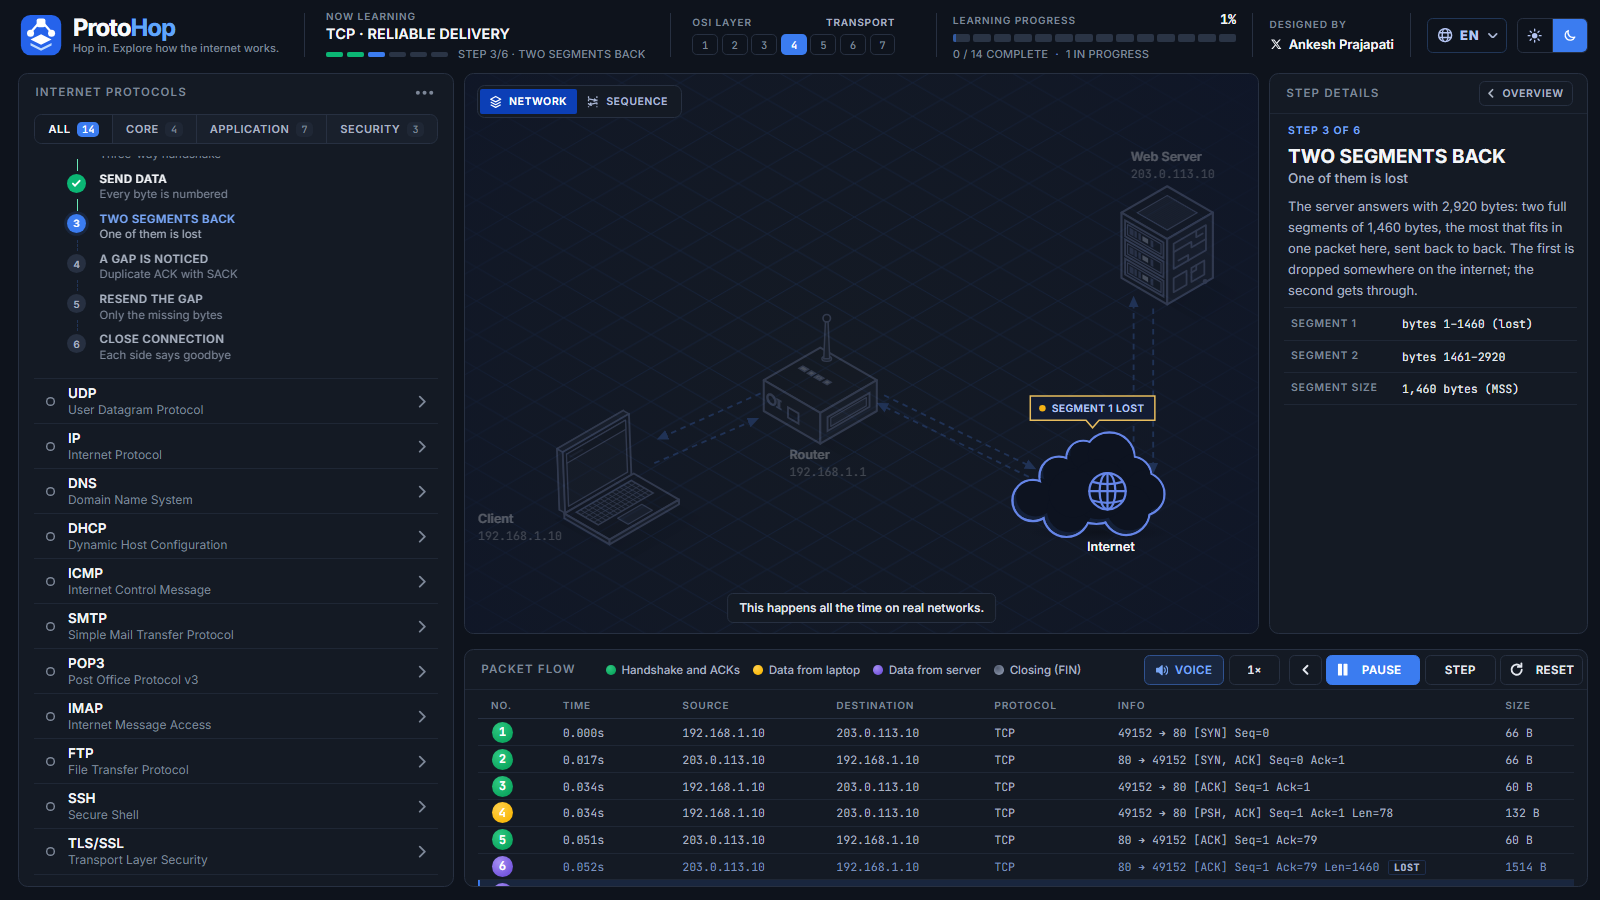
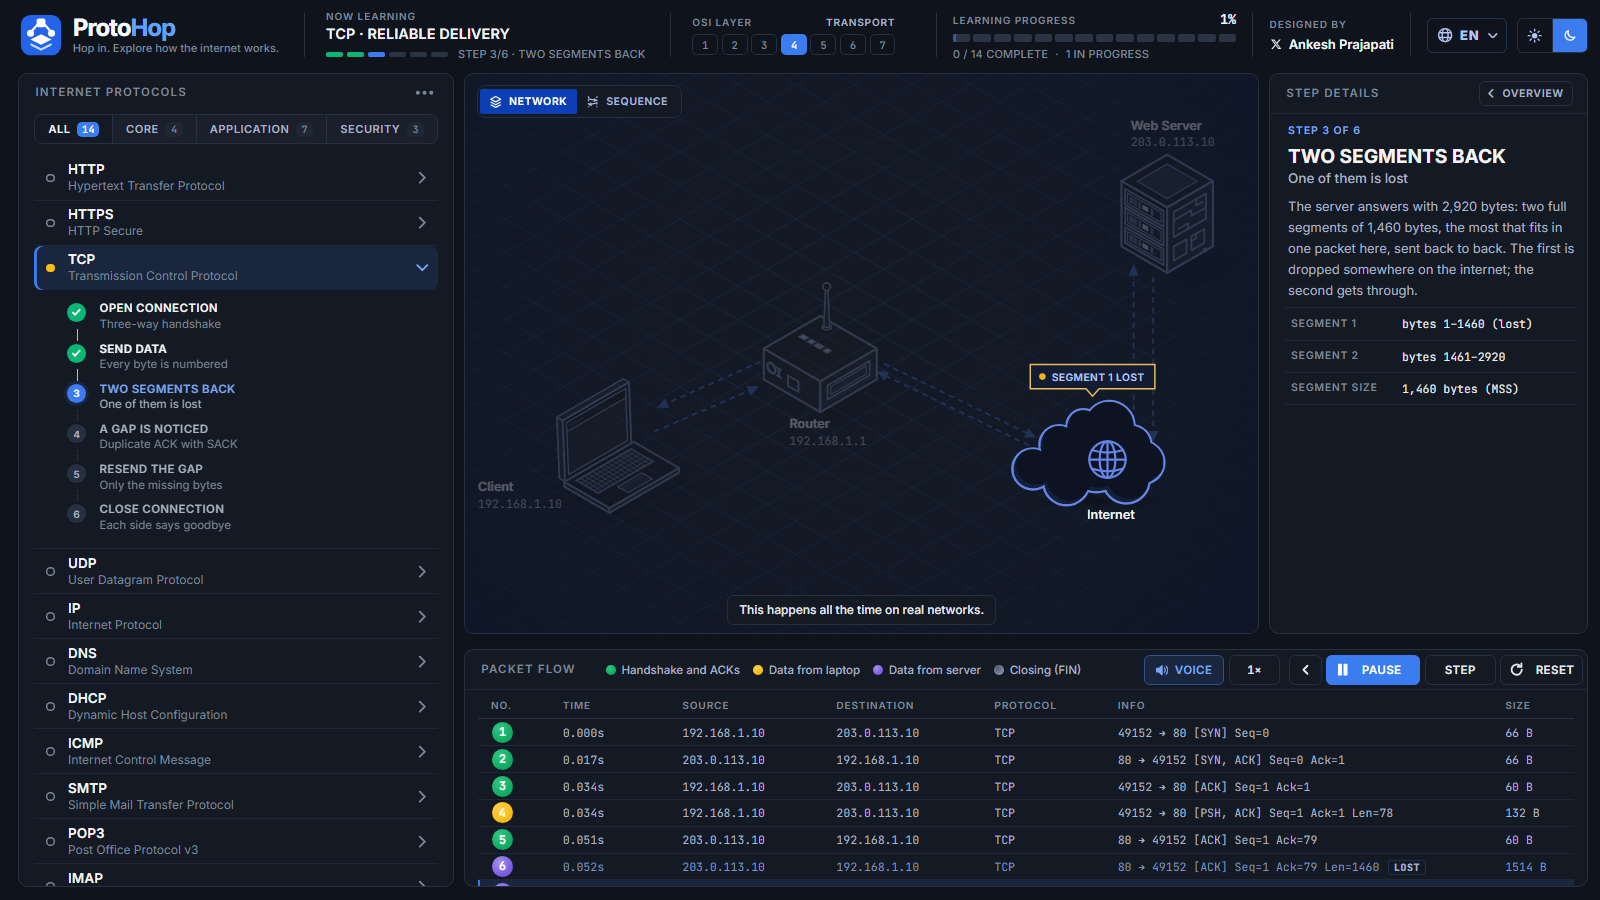
Wrap long step names on small screens and refresh README screenshots
Step labels no longer get cut off on phones and foldables. Screenshots now
show the current diagram layout with the caption strip.

diff --git a/assets/theme.css b/assets/theme.css
@@ -252,7 +252,9 @@ body { background: var(--bg); }
 /* ---------- small screens (phones, foldables, narrow tablets) ---------- */
 /* Inter is wider than the original condensed face: let the lesson title wrap instead of cutting it off */
 .is-single .now-title { white-space: normal; overflow: visible; text-overflow: clip; font-size: 14px; line-height: 18px; }
-.is-single .now-step { font-size: 10.5px; letter-spacing: .02em; }
+.is-single .now-step { font-size: 10.5px; line-height: 13px; letter-spacing: .02em; white-space: normal; overflow: visible; text-overflow: clip; }
+.is-single .now-progress { align-items: flex-start; }
+.is-single .now-dots { margin-top: 4px; }
 
 /* the packet table scrolls sideways here; fade its right edge so the extra columns are discoverable */
 @property --nf-edge { syntax: "<length>"; inherits: false; initial-value: 36px; }

diff --git a/index.html b/index.html
@@ -44,10 +44,10 @@
       }
     </script>
     <link rel="stylesheet" href="assets/index-C1vckX_Q.css">
-    <link rel="stylesheet" href="assets/palette.css?v=22">
-    <link rel="stylesheet" href="assets/theme.css?v=22">
-    <script type="module" src="assets/index-T6io6WnP.js?v=22"></script>
-    <script type="module" src="assets/audio-narrator.js?v=22"></script>
+    <link rel="stylesheet" href="assets/palette.css?v=23">
+    <link rel="stylesheet" href="assets/theme.css?v=23">
+    <script type="module" src="assets/index-T6io6WnP.js?v=23"></script>
+    <script type="module" src="assets/audio-narrator.js?v=23"></script>
   </head>
   <body>
     <div id="app"></div>
